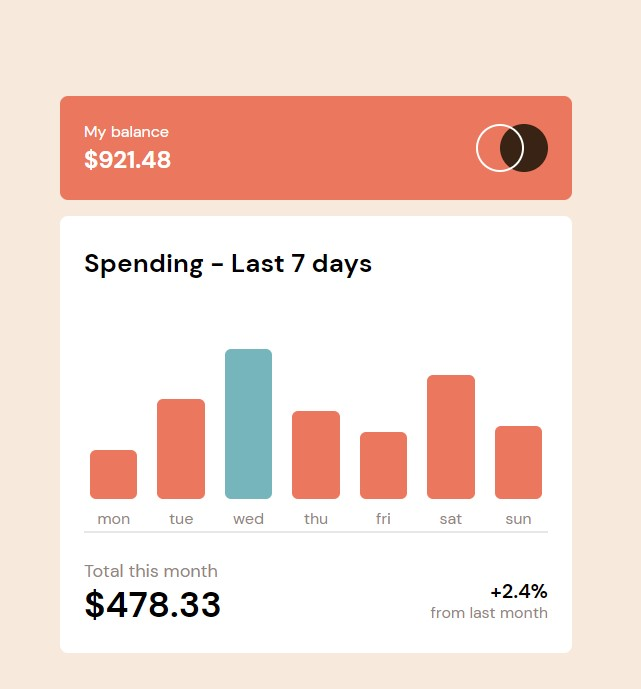
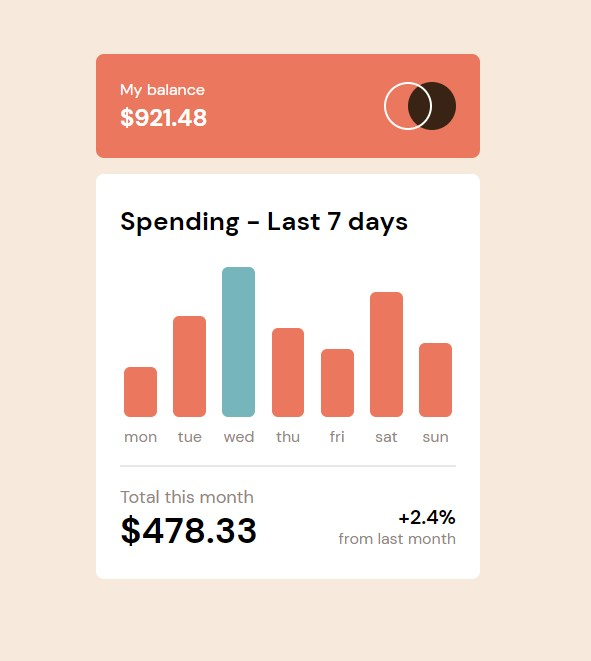
style fixes

diff --git a/dist/index.html b/dist/index.html
@@ -45,7 +45,7 @@
       <div class="px-6 py-7 rounded-lg bg-white">
         <p class="spending | font-semibold">Spending - Last 7 days</p>
         <div
-          class="graph-container | mb-6 min-h-[225px] grid grid-cols-7 items-end gap-2 text-center border-b-2 lg:min-h-[250px]"
+          class="graph-container | pb-4 mb-4 min-h-[225px] grid grid-cols-7 items-end gap-2 text-center border-b-2 lg:min-h-[250px]"
         >
           <div class="graph-container flex flex-col">
             <div

diff --git a/dist/style.css b/dist/style.css
@@ -625,6 +625,10 @@ video {
   margin-bottom: -0.25rem;
 }
 
+.mb-4 {
+  margin-bottom: 1rem;
+}
+
 .flex {
   display: flex;
 }
@@ -737,6 +741,14 @@ video {
 .py-7 {
   padding-top: 1.75rem;
   padding-bottom: 1.75rem;
+}
+
+.pb-10 {
+  padding-bottom: 2.5rem;
+}
+
+.pb-4 {
+  padding-bottom: 1rem;
 }
 
 .text-center {
